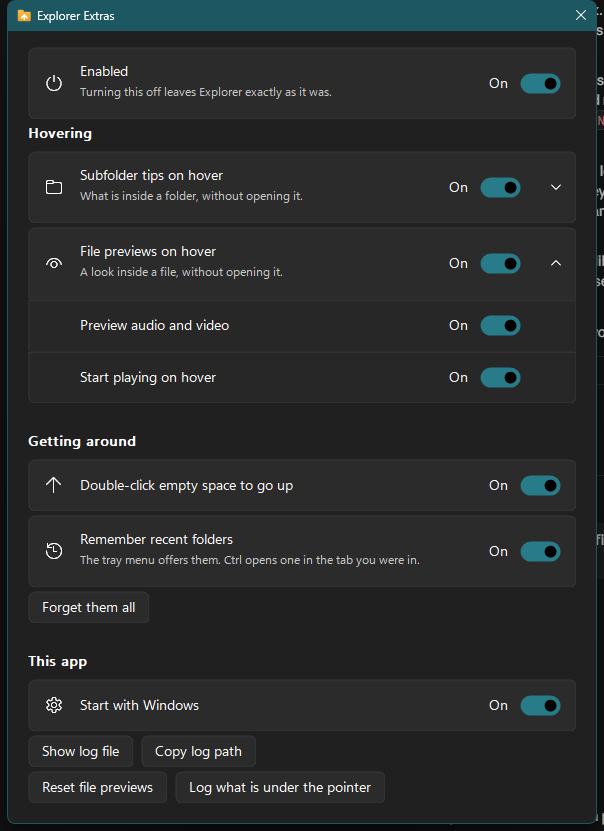
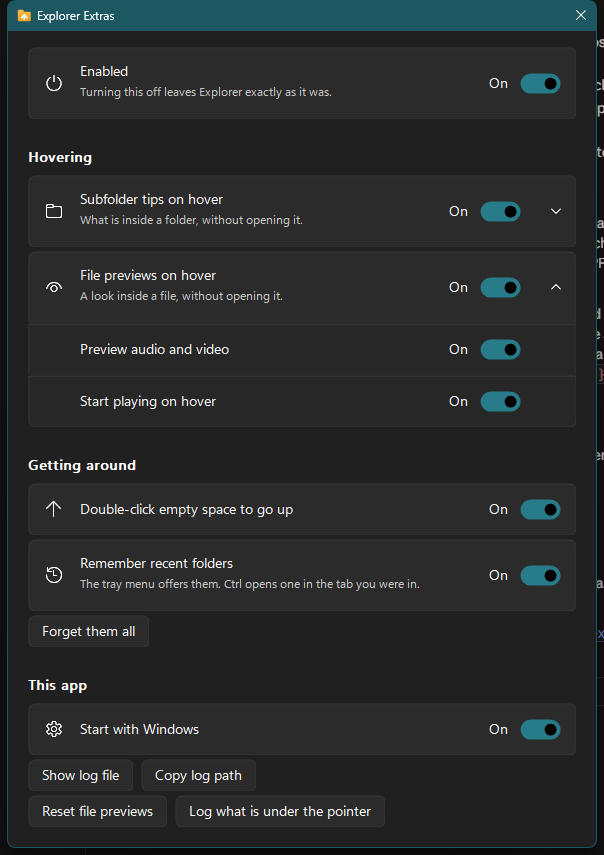
Give the first heading the same air as the others
"Hovering" sat tight under the Enabled card while "Getting around" and "This
app" each had a clear gap above them. The guard that suppresses the spacing
was asking whether this was the first heading, when what it meant was whether
anything had been laid out above it yet - and something had.

diff --git a/src/ExplorerExtras/ui/SettingsWindow.cpp b/src/ExplorerExtras/ui/SettingsWindow.cpp
@@ -606,7 +606,6 @@ void SettingsWindow::Layout() {
     places.reserve(controls_.size());
 
     int y = Scale(kTopMarginDip, dpi_);
-    bool first_section = true;
     size_t group = kRowCount;  // the header whose children we are inside
 
     for (size_t index = 0; index < controls_.size(); ++index) {
@@ -637,8 +636,9 @@ void SettingsWindow::Layout() {
 
         switch (row.kind) {
             case RowKind::Section: {
-                if (!first_section) y += Scale(kSectionTopDip, dpi_);
-                first_section = false;
+                // A heading gets air above it, unless it is the very first
+                // thing in the window and has nothing to be separated from.
+                if (!places.empty()) y += Scale(kSectionTopDip, dpi_);
                 places.push_back({control.window, left, y, content, Scale(kSectionHeightDip, dpi_)});
                 y += Scale(kSectionHeightDip, dpi_) + Scale(kSectionGapDip, dpi_);
                 break;
